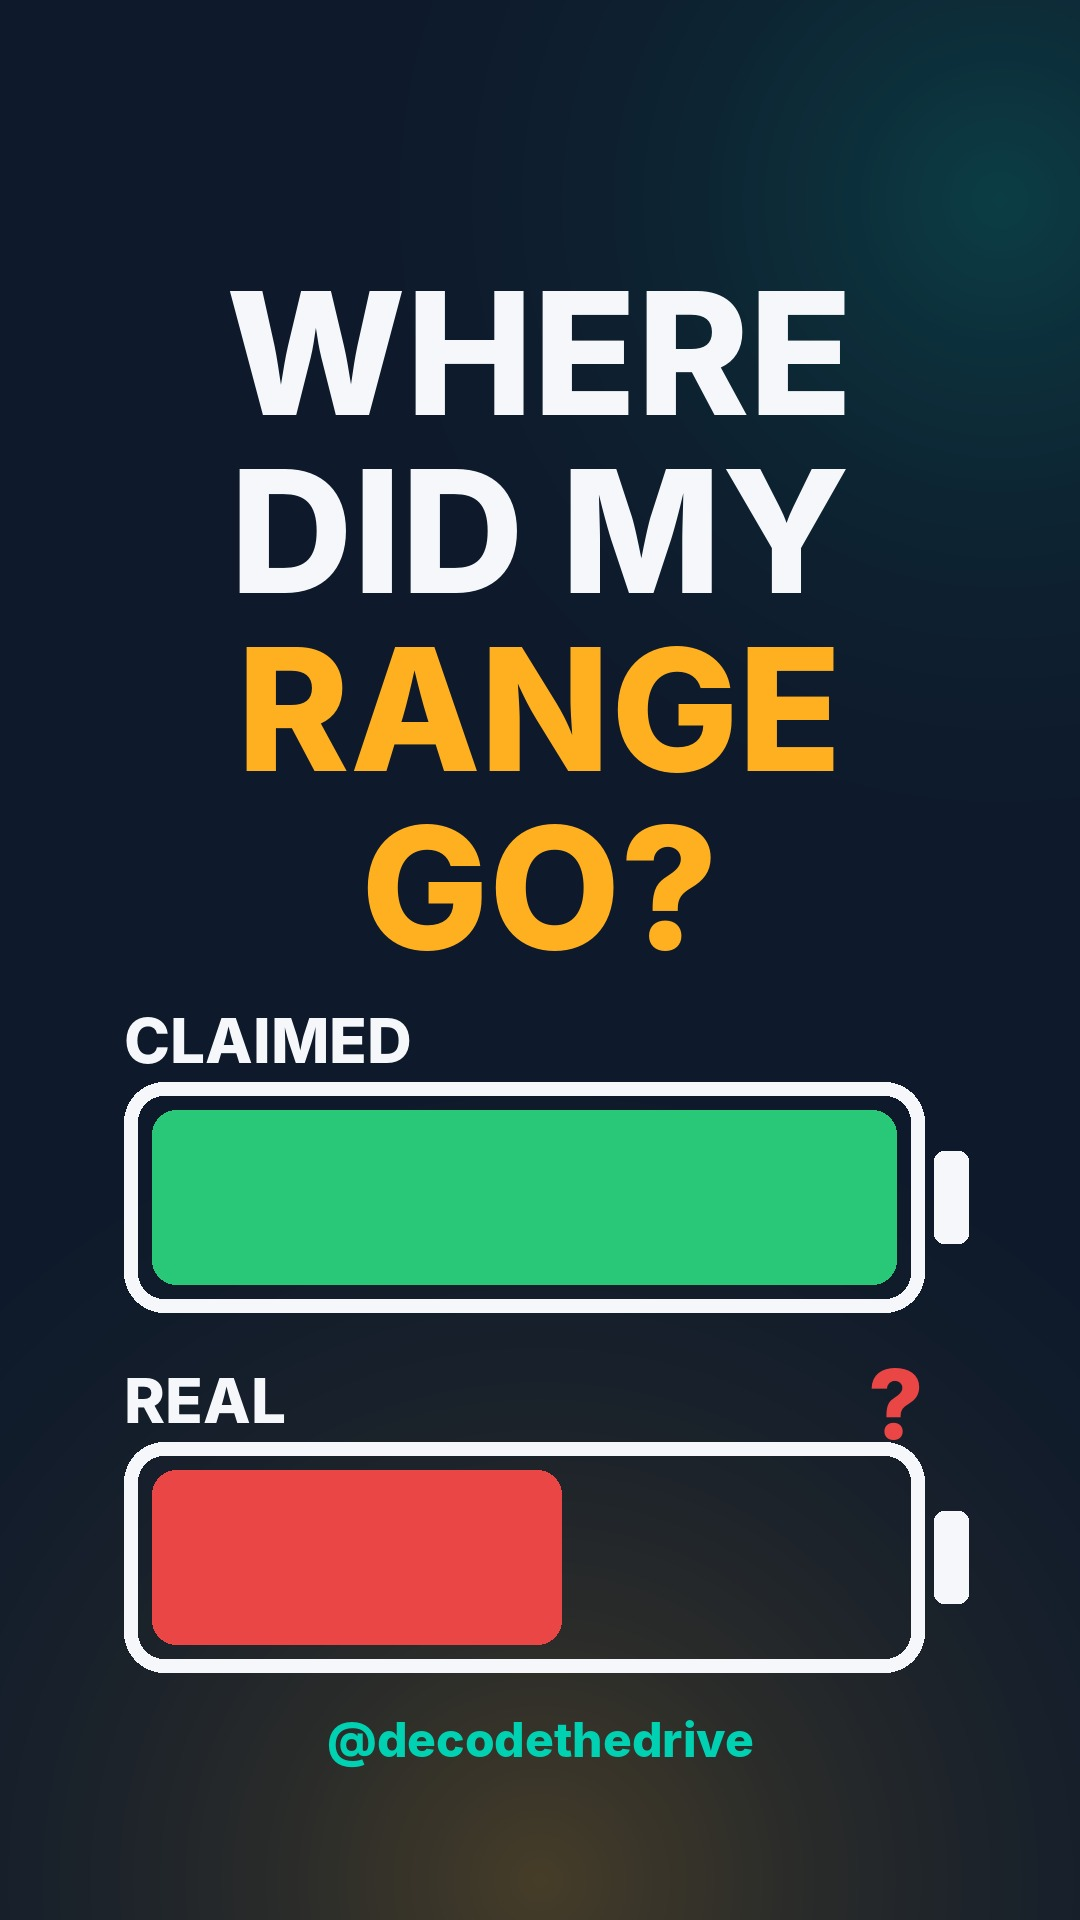
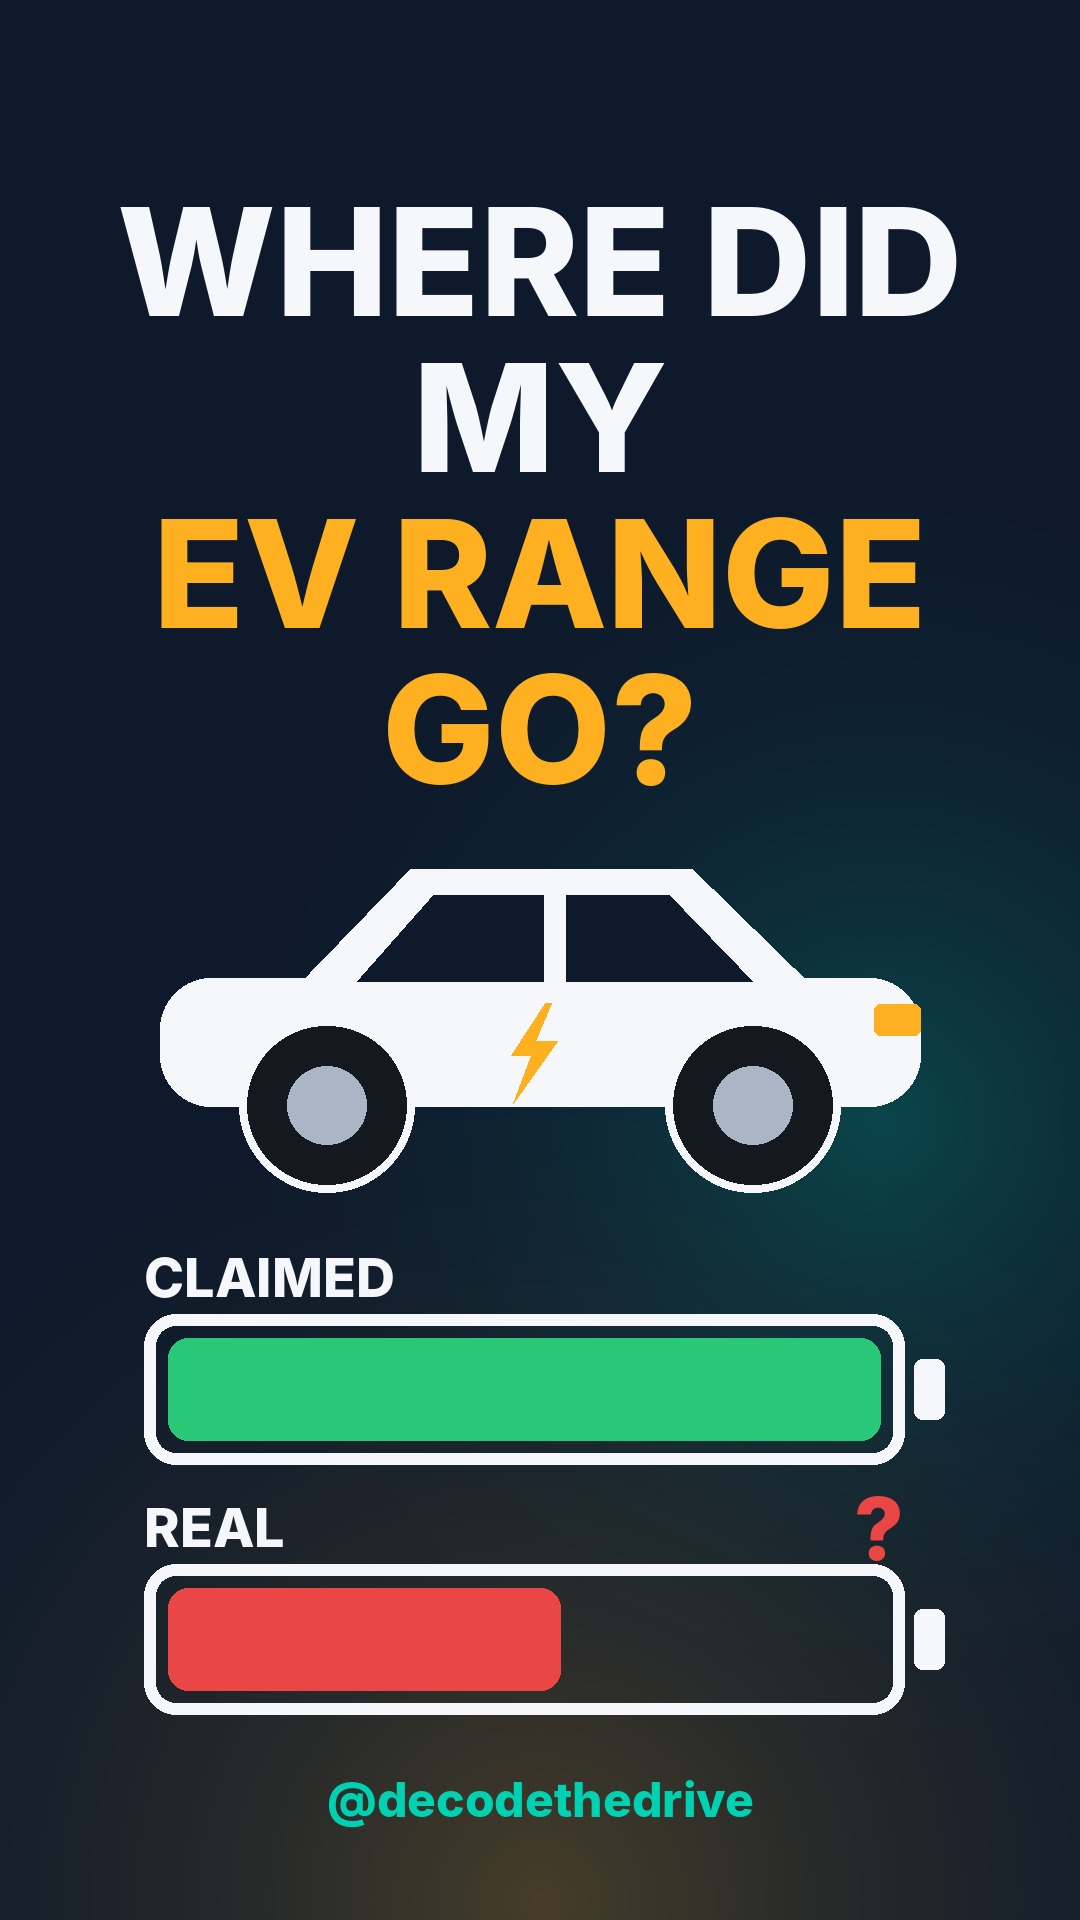
Show an EV on the range thumbnail so the battery reads as a car's
Claude-Session: https://claude.ai/code/session_019nGMK1H6NFztfiBrf6fioQ

diff --git a/agent/motion.py b/agent/motion.py
@@ -234,9 +234,16 @@ def _write_sfx(cues, total, path):
 
 # ---- render ----------------------------------------------------------------
 
-def render_meter(post, path: Path, handle="@decodethedrive", music: Path | None = None) -> Path:
+def formats():
+    """Animated formats: reel_style -> (scene builder, thumbnail designer)."""
+    from .motion_fog import fog_scenes, fog_thumbnail
+    return {"meter": (meter_scenes, meter_thumbnail), "fog": (fog_scenes, fog_thumbnail)}
+
+
+def render_motion(post, path: Path, handle="@decodethedrive", music: Path | None = None) -> Path:
     path.parent.mkdir(parents=True, exist_ok=True)
-    scenes = meter_scenes(post, handle)
+    build, thumbnail = formats()[post["reel_style"]]
+    scenes = build(post, handle)
     starts, total = [], 0.0
     for dur, _, _ in scenes:
         starts.append(total)
@@ -291,39 +298,66 @@ def render_meter(post, path: Path, handle="@decodethedrive", music: Path | None 
         raise RuntimeError("ffmpeg failed while rendering the animated reel")
     sfx.unlink()
     (cover or rgb).save(path.parent / "cover.jpg", "JPEG", quality=92)  # Instagram cover
-    meter_thumbnail(post, path.parent / "thumbnail.jpg", handle)
+    thumbnail(post, path.parent / "thumbnail.jpg", handle)
     return path
 
 
+def render_meter(post, path: Path, handle="@decodethedrive", music: Path | None = None) -> Path:
+    return render_motion({**post, "reel_style": "meter"}, path, handle, music)
+
+
+def _ev_car(d, cx, y, w, body=WHITE):
+    """Side view of an EV with a bolt on the door, so the battery reads as
+    a car's, not a phone's."""
+    x0, h = cx - w // 2, int(w * 0.42)
+    d.rounded_rectangle([x0, y + h * 0.42, x0 + w, y + h * 0.82], radius=int(h * 0.16), fill=body)
+    d.polygon([(x0 + w * 0.18, y + h * 0.45), (x0 + w * 0.33, y + h * 0.08), (x0 + w * 0.70, y + h * 0.08),
+               (x0 + w * 0.86, y + h * 0.45)], fill=body)
+    d.polygon([(x0 + w * 0.26, y + h * 0.43), (x0 + w * 0.36, y + h * 0.16), (x0 + w * 0.505, y + h * 0.16),
+               (x0 + w * 0.505, y + h * 0.43)], fill=NAVY)
+    d.polygon([(x0 + w * 0.535, y + h * 0.43), (x0 + w * 0.535, y + h * 0.16), (x0 + w * 0.67, y + h * 0.16),
+               (x0 + w * 0.78, y + h * 0.43)], fill=NAVY)
+    d.rounded_rectangle([x0 + w * 0.94, y + h * 0.5, x0 + w, y + h * 0.6], radius=6, fill=AMBER)
+    bx, by = x0 + w * 0.47, y + h * 0.5
+    d.polygon([(bx + 28, by), (bx - 6, by + 52), (bx + 14, by + 52), (bx - 4, by + 100), (bx + 40, by + 38),
+               (bx + 18, by + 38), (bx + 34, by)], fill=AMBER)
+    for wx in (0.22, 0.78):
+        r = w * 0.115
+        cxw, cyw = x0 + w * wx, y + h * 0.82
+        d.ellipse([cxw - r, cyw - r, cxw + r, cyw + r], fill=INK, outline=body, width=8)
+        d.ellipse([cxw - r * 0.45, cyw - r * 0.45, cxw + r * 0.45, cyw + r * 0.45], fill=GREY)
+
+
 def meter_thumbnail(post, path: Path, handle="@decodethedrive") -> Path:
-    """Search thumbnail: a short question in huge type and the meter's
-    before/after, readable at the size YouTube shows it in results.
+    """Search thumbnail: a short question in huge type, the car, and the
+    meter's before/after, readable at the size YouTube shows in results.
     `thumbnail_text` is "white part | amber part"."""
     text = post.get("thumbnail_text") or post["slides"][0]["heading"]
     top, _, accent = text.partition("|")
     im = Image.new("RGBA", (W, H), (*NAVY, 255))
-    im.alpha_composite(_glow(900, AMBER, 60), (-360, 980))
-    im.alpha_composite(_glow(700, TEAL, 50), (300, -500))
+    im.alpha_composite(_glow(900, AMBER, 60), (-360, 1000))
+    im.alpha_composite(_glow(700, TEAL, 60), (180, 420))
     d = ImageDraw.Draw(im)
-    y = 250
+    y = 170
     for part, color in ((top, WHITE), (accent, AMBER)):
         part = clean(part).upper()
         if not part:
             continue
-        f, lines, line_h = _fit(d, part, BOLD, W - 2 * X0, 520, 170, 90, spacing=1.05)
+        f, lines, line_h = _fit(d, part, BOLD, W - 2 * X0, 400, 150, 80, spacing=1.04)
         for line in lines:
             d.text((W // 2, y), line, font=f, fill=color, anchor="ma")
             y += line_h
+    _ev_car(d, W // 2, y + 50, 760)
     real = post.get("meter_end", 0.55)
+    bw, bh, x = 760, 150, (W - 760) // 2 - 16
     for n, (label, level, color) in enumerate((("CLAIMED", 1.0, GREEN), ("REAL", real, RED))):
-        by = max(y + 120, 1010) + n * 360
-        bw, bh, x = 800, 230, (W - 800) // 2 - 16
-        d.text((x, by - 80), label, font=_font(BOLD, 62), fill=WHITE)
+        by = y + 520 + n * 250
+        d.text((x, by - 70), label, font=_font(BOLD, 54), fill=WHITE)
         if n:  # the real figure depends on the car and the drive, so ask instead of inventing one
-            d.text((x + bw, by - 96), "?", font=_font(BOLD, 96), fill=color, anchor="ra")
-        d.rounded_rectangle([x, by, x + bw, by + bh], radius=40, outline=WHITE, width=14)
-        d.rounded_rectangle([x + bw + 10, by + bh * 0.3, x + bw + 44, by + bh * 0.7], radius=10, fill=WHITE)
-        d.rounded_rectangle([x + 28, by + 28, x + 28 + (bw - 56) * level, by + bh - 28], radius=24, fill=color)
-    d.text((W // 2, H - 210), handle, font=_font(BOLD, 48), fill=TEAL, anchor="ma")
+            d.text((x + bw, by - 88), "?", font=_font(BOLD, 86), fill=color, anchor="ra")
+        d.rounded_rectangle([x, by, x + bw, by + bh], radius=32, outline=WHITE, width=12)
+        d.rounded_rectangle([x + bw + 10, by + bh * 0.3, x + bw + 40, by + bh * 0.7], radius=8, fill=WHITE)
+        d.rounded_rectangle([x + 24, by + 24, x + 24 + (bw - 48) * level, by + bh - 24], radius=20, fill=color)
+    d.text((W // 2, H - 150), handle, font=_font(BOLD, 48), fill=TEAL, anchor="ma")
     im.convert("RGB").save(path, "JPEG", quality=92)
     return path

diff --git a/agent/design.py b/agent/design.py
@@ -259,9 +259,9 @@ def render_post(post: dict, media_root: Path, handle="@decodethedrive", tts_key:
                 voice = synthesize(post["voiceover"], out / "voice.mp3", tts_key)
             except Exception as e:  # a reel without voice beats no reel
                 print(f"  voiceover skipped: {e}")
-        if post.get("reel_style") == "meter" and len(slides) >= 4 and not voice:
-            from .motion import render_meter
-            files = [render_meter({**post, "slides": slides}, out / "reel.mp4", handle, track)]
+        if post.get("reel_style") in ("meter", "fog") and len(slides) >= 4 and not voice:
+            from .motion import render_motion
+            files = [render_motion({**post, "slides": slides}, out / "reel.mp4", handle, track)]
         else:
             files = [render_reel(slides, out / "reel.mp4", handle, track, post, voice)]
             post["reel_style"] = usable({**post, "slides": slides})
